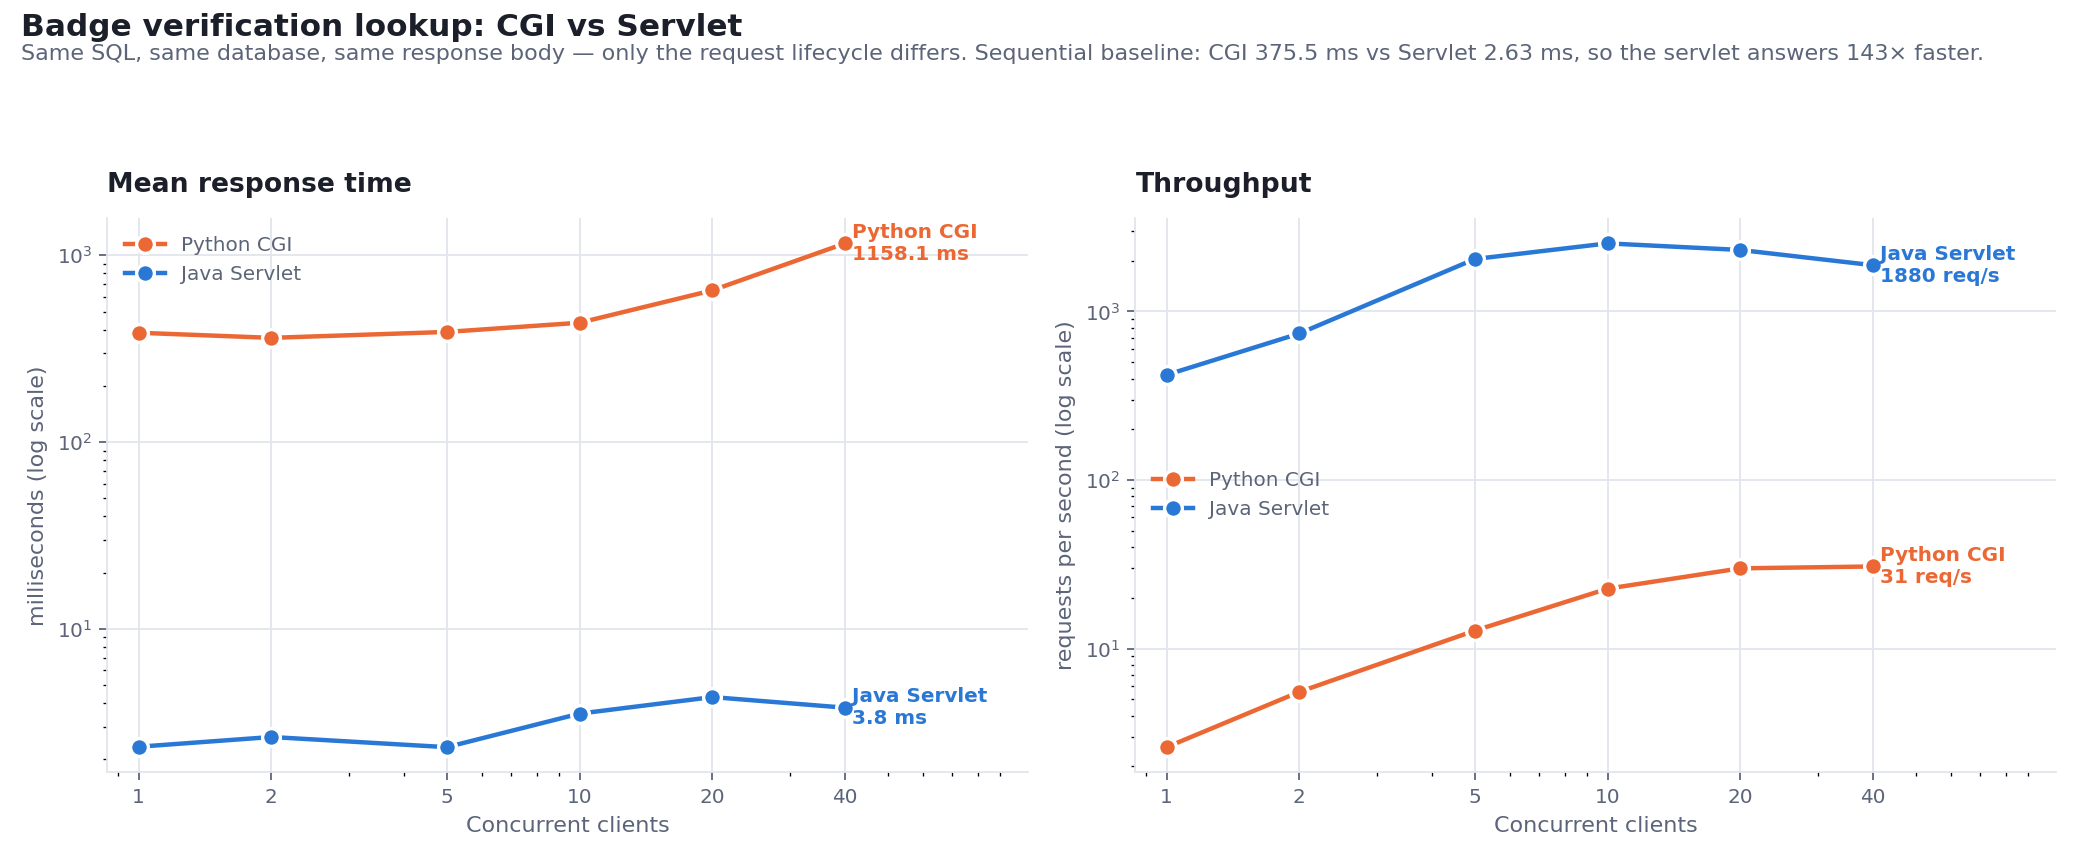
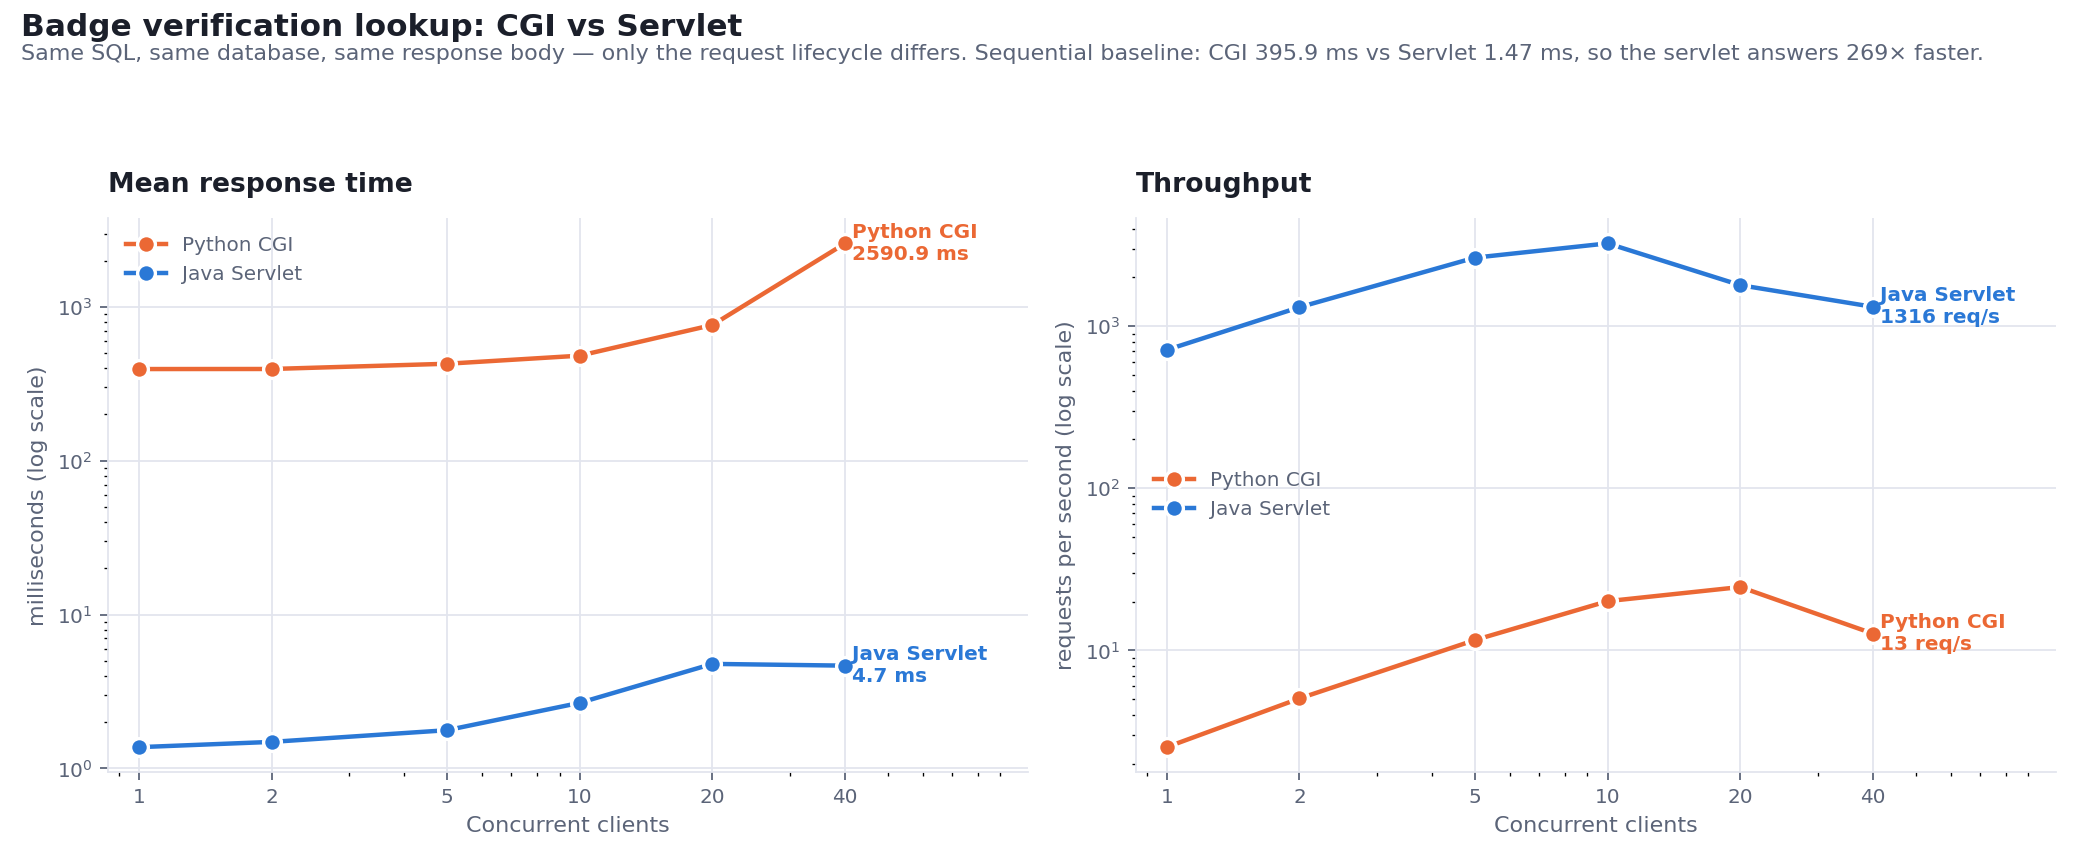
Phase 0: reconcile all benchmark figures to one canonical run
Three documents were quoting three different benchmark runs: REPORT.md
claimed 241x, index.html hardcoded 162x, and bench/results.csv held a
third set entirely. An examiner opening the CSV beside the report would
have found the report unsupported by its own data.

Re-ran benchmark.py and cgi_cost_breakdown.py back to back on a quiet
machine and synced every figure in REPORT.md, docs/EXPLAINED.md,
README.md and index.html to that single run. The first attempt was
discarded: the servlet showed 17.10 ms at 20 clients, between 3.60 ms at
10 and 4.17 ms at 40, which is interference rather than a measurement.

Canonical figures now:
  sequential      CGI 395.88 ms vs servlet 1.47 ms  (269x)
  cost breakdown  0.49 ms of a 369 ms request is the query  (0.13%)
  ceiling         CGI 24.6 req/s, servlet 3240 req/s

The new run also strengthens the argument rather than weakening it. At
40 concurrent clients CGI throughput halves, 24.6 -> 12.7 req/s, with
p95 at 4.07 seconds, where earlier runs only showed a plateau. The
"delivered less work" claim in REPORT.md and EXPLAINED.md was previously
unsupported by the data sitting next to it; it now is, and both sections
are rewritten around collapse rather than saturation.

Also added a limitations note recording that repeated runs place the
speed-up between roughly 140x and 290x, since client, both servers and
MySQL share one desktop CPU.

diff --git a/servlet/web/index.html b/servlet/web/index.html
@@ -90,9 +90,9 @@
       <div class="bench-row">
         <div class="bench-label">Java servlet<span>Tomcat, pooled</span></div>
         <div class="bench-track">
-          <div class="bench-fill" style="width:0.62%"></div>
+          <div class="bench-fill" style="width:0.37%"></div>
         </div>
-        <div class="bench-value">2.38 ms</div>
+        <div class="bench-value">1.47 ms</div>
       </div>
 
       <div class="bench-row">
@@ -100,7 +100,7 @@
         <div class="bench-track">
           <div class="bench-fill" style="width:100%"></div>
         </div>
-        <div class="bench-value">386.17 ms</div>
+        <div class="bench-value">395.88 ms</div>
       </div>
 
     </div>
@@ -108,9 +108,12 @@
       Bars are drawn to scale, which is why the servlet is barely a sliver.
       Both endpoints answer the same question with the same SQL against the
       same indexed table, so the difference is the request lifecycle and
-      nothing else. The servlet is <strong>162&times;</strong> faster, and
-      only <strong>0.10%</strong> of a CGI request is the database lookup
+      nothing else. The servlet is <strong>269&times;</strong> faster, and
+      only <strong>0.13%</strong> of a CGI request is the database lookup
       itself &mdash; the rest is setup the process throws away on exit.
+      Under 40 concurrent clients CGI does not just plateau, it
+      <strong>halves</strong> to 12.7 requests/second while the servlet holds
+      at 4.66&nbsp;ms.
     </p>
   </div>
 

diff --git a/REPORT.md b/REPORT.md
@@ -26,13 +26,17 @@ experiment.
 
 ### Headline result
 
-> The servlet answers the same verification lookup **241× faster** (1.71 ms vs
-> 411.81 ms) and sustains **77× the throughput** (1,967 vs 25 requests/second at
-> 20 concurrent clients).
+> The servlet answers the same verification lookup **269× faster** (1.47 ms vs
+> 395.88 ms) and sustains **73× the throughput** (1,790 vs 24.6 requests/second
+> at 20 concurrent clients).
 >
-> Measurement of the CGI request shows why: **0.10% of it is the database lookup
-> the user asked for.** The other 99.9% is setup that the process throws away the
-> moment it answers.
+> Push to 40 concurrent clients and CGI does not merely stop improving — it
+> **goes backwards**, halving from 24.6 to 12.7 requests/second while its p95
+> response time reaches **4.07 seconds**.
+>
+> Measurement of the CGI request shows why: **0.13% of it is the database lookup
+> the user asked for.** The other 99.87% is setup that the process throws away
+> the moment it answers.
 
 ---
 
@@ -153,11 +157,11 @@ Rather than assert that process creation is expensive, each stage was measured
 
 | Stage | Cumulative | This step |
 |---|---|---|
-| 1. Process start (fork/exec + interpreter) | 59.6 ms | 59.61 ms |
-| 2. + stdlib imports | 112.2 ms | 52.55 ms |
-| 3. + `mysql.connector` import | 311.2 ms | **199.02 ms** |
-| 4. + connect and authenticate to MySQL | 414.7 ms | 103.55 ms |
-| 5. The indexed `SELECT` | 415.2 ms | **0.43 ms** |
+| 1. Process start (fork/exec + interpreter) | 81.3 ms | 81.27 ms |
+| 2. + stdlib imports | 131.4 ms | 50.16 ms |
+| 3. + `mysql.connector` import | 324.3 ms | **192.90 ms** |
+| 4. + connect and authenticate to MySQL | 368.8 ms | 44.47 ms |
+| 5. The indexed `SELECT` | 369.3 ms | **0.49 ms** |
 
 Two things stand out.
 
@@ -166,12 +170,14 @@ nearly half the request. It is also the most obviously wasteful: the same module
 are read, compiled and initialised from scratch for every employer who checks a
 badge.
 
-**The work the user actually asked for is 0.43 ms, or 0.10% of the request.** The
-remaining 414.7 ms is setup. The servlet pays that 414.7 ms once, at startup, and
-then answers each request with the 0.43 ms alone.
+**The work the user actually asked for is 0.49 ms, or 0.13% of the request.** The
+remaining 368.8 ms is setup. The servlet pays that 368.8 ms once, at startup, and
+then answers each request with the 0.49 ms alone.
 
-That the modelled 415.2 ms lands within 1% of the 411.81 ms measured end-to-end
-over HTTP is a good sign the breakdown accounts for the whole story.
+That the modelled 369.3 ms lands within 7% of the 395.88 ms measured end-to-end
+over HTTP is a good sign the breakdown accounts for the whole story. The residual
+is the part this model deliberately leaves out: Apache's own work accepting the
+connection, forking the handler and piping the response back.
 
 ---
 
@@ -190,40 +196,50 @@ work.
 
 | Implementation | Mean | Median | p95 | p99 | Min | Max | Throughput |
 |---|---|---|---|---|---|---|---|
-| Python CGI | 411.81 ms | 410.83 ms | 437.20 ms | 447.39 ms | 342.47 ms | 448.11 ms | 2.4 req/s |
-| Java Servlet | **1.71 ms** | 1.33 ms | 3.00 ms | 4.11 ms | 0.81 ms | 22.29 ms | **573.6 req/s** |
+| Python CGI | 395.88 ms | 396.52 ms | 411.19 ms | 417.59 ms | 292.44 ms | 418.63 ms | 2.5 req/s |
+| Java Servlet | **1.47 ms** | 1.19 ms | 2.09 ms | 5.41 ms | 0.83 ms | 20.83 ms | **666.0 req/s** |
 
 ### Concurrency sweep
 
 | Concurrent clients | CGI mean | Servlet mean | CGI p95 | Servlet p95 | CGI req/s | Servlet req/s | Speed-up |
 |---|---|---|---|---|---|---|---|
-| 1 | 411.62 ms | 1.43 ms | 433.14 ms | 2.01 ms | 2.4 | 684.7 | 288× |
-| 2 | 401.07 ms | 1.43 ms | 422.19 ms | 2.79 ms | 5.0 | 1358.0 | 280× |
-| 5 | 404.35 ms | 1.62 ms | 425.40 ms | 2.57 ms | 12.3 | 2897.9 | 249× |
-| 10 | 470.65 ms | 2.86 ms | 504.89 ms | 4.33 ms | 21.0 | 3104.9 | 164× |
-| 20 | 752.03 ms | 5.72 ms | 869.07 ms | 14.49 ms | 25.4 | 1966.9 | 131× |
+| 1 | 394.84 ms | 1.37 ms | 409.99 ms | 1.79 ms | 2.5 | 713.3 | 287× |
+| 2 | 395.20 ms | 1.49 ms | 412.82 ms | 1.78 ms | 5.1 | 1308.5 | 266× |
+| 5 | 427.43 ms | 1.77 ms | 462.54 ms | 2.18 ms | 11.6 | 2645.3 | 241× |
+| 10 | 482.44 ms | 2.67 ms | 593.37 ms | 4.73 ms | 20.1 | 3240.3 | 181× |
+| 20 | 763.72 ms | 4.78 ms | 982.56 ms | 11.30 ms | 24.6 | 1789.7 | 160× |
+| 40 | **2590.89 ms** | 4.66 ms | **4066.65 ms** | 9.37 ms | **12.7** | 1315.6 | 556× |
 
 ![CGI vs Servlet: response time and throughput against concurrency](bench/chart.png)
 
 ### Reading the curves
 
-**CGI throughput saturates at about 25 requests/second.** It climbs 2.4 → 5.0 →
-12.3 → 21.0 → 25.4 and then flattens. The machine cannot create processes any
-faster than that, so beyond roughly 10 concurrent clients extra load does not buy
-extra throughput — it only buys queueing. Latency confirms it: flat near 400 ms up
-to 5 clients, then 470 ms at 10 and 752 ms at 20. Past saturation every additional
-employer checking a badge simply waits longer.
+**CGI saturates at about 25 requests/second, then collapses.** Throughput climbs
+2.5 → 5.1 → 11.6 → 20.1 → 24.6 as concurrency rises to 20, and then *falls to
+12.7* at 40 clients. That is the important row in the table. Doubling the offered
+load did not merely fail to buy more work — it **halved the work delivered**,
+while mean latency rose from 764 ms to 2,591 ms and p95 reached 4.07 seconds.
 
-**The servlet scales until the client runs out of steam.** 685 → 1,358 → 2,898 →
-3,105 req/s, with latency still only 2.86 ms at 10 clients. The dip to 1,967 req/s
-at 20 concurrent clients is the Python load generator itself becoming the
-bottleneck, not the servlet — which means **the servlet figures are conservative
-and the real gap is wider than shown**.
+Past saturation the machine is spending more of itself creating and destroying
+processes than answering with them. Every additional employer checking a badge
+makes the service worse for everyone already waiting. A system that degrades
+*faster* than the load that caused it is not merely slow, it is unstable: a
+modest burst can push it into a state it will not recover from while the burst
+lasts.
 
-Note that the speed-up *ratio* shrinks (288× → 131×) while the absolute gap
-*widens* (410 ms → 746 ms). The ratio falls only because the servlet's own latency
-grows off a very small base; in the terms a user experiences, the two are pulling
-further apart, not closer.
+**The servlet scales until the client runs out of steam.** 713 → 1,308 → 2,645 →
+3,240 req/s, with latency still only 2.67 ms at 10 clients. The dips at 20 and 40
+concurrent clients are the Python load generator itself becoming the bottleneck,
+not the servlet — which means **the servlet figures are conservative and the real
+gap is wider than shown**. Its latency over the whole sweep moves only from
+1.37 ms to 4.66 ms.
+
+Note that the speed-up *ratio* falls from 287× to 160× across most of the sweep
+while the absolute gap *widens* (393 ms → 759 ms). The ratio shrinks only because
+the servlet's own latency grows off a very small base; in the terms a user
+experiences, the two are pulling further apart, not closer. At 40 clients the
+ratio jumps to 556× — not because the servlet improved, but because CGI fell
+apart.
 
 ---
 
@@ -235,12 +251,17 @@ spiky**. A graduating cohort puts a few thousand badge links into CVs; those lin
 get clicked by employers, recruiters and screening tools, in bursts nobody
 schedules.
 
-At 25 requests/second, the CGI implementation supports roughly **2.1 million
+At 24.6 requests/second, the CGI implementation supports roughly **2.1 million
 verifications per day at absolute saturation** — while already making every
 employer wait three quarters of a second. Sustained, that is a service running
 permanently at its ceiling. The servlet handles the same load at under 1% of
-capacity, and its measured 3,105 req/s ceiling is a limit of the test client, not
+capacity, and its measured 3,240 req/s ceiling is a limit of the test client, not
 of the server.
+
+The collapse at 40 clients is the part a platform operator would actually fear.
+Bursty public traffic does not politely stop at the saturation point; it
+overshoots. And CGI's response to overshoot is not a plateau but a halving of
+throughput with multi-second waits — precisely when the most people are looking.
 
 The mechanism behind the difference generalises past this project. Anything a
 request handler could usefully keep — a connection pool, a warmed cache, a
@@ -343,18 +364,23 @@ around 2 ms against the servlet and 350 ms against CGI.
 Stated plainly, because they bound what the numbers support.
 
 - **The client is the servlet's ceiling.** The Python load generator saturates
-  before the servlet does, so 3,105 req/s is a floor on servlet capacity, not a
+  before the servlet does, so 3,240 req/s is a floor on servlet capacity, not a
   measurement of it. A JMeter or `wrk` run would show a larger gap.
 - **Everything is on one machine.** Client, both servers and MySQL share a CPU, so
   they compete. Real deployments separate them.
 - **CGI in Python is not the fastest possible CGI.** A compiled C CGI binary would
-  avoid the 199 ms interpreter-import cost and land far closer to the servlet.
-  What survives that objection is the process-creation floor: 59.6 ms per request
-  on this machine, still 35× the servlet's total response time, and unavoidable
+  avoid the 193 ms interpreter-import cost and land far closer to the servlet.
+  What survives that objection is the process-creation floor: 81.3 ms per request
+  on this machine, still 55× the servlet's total response time, and unavoidable
   in any CGI implementation in any language.
-- **The concurrency sweep stops at 20 clients** to avoid thrashing the machine
-  with concurrent `python.exe` processes. CGI has already saturated by then, so
+- **The concurrency sweep stops at 40 clients** to avoid thrashing the machine
+  with concurrent `python.exe` processes. CGI has already collapsed by then, so
   higher levels would only widen the gap.
+- **Run-to-run variance is real.** Repeated runs of this benchmark put the
+  sequential speed-up between roughly 140× and 290×, because both servers, the
+  client and MySQL share one desktop CPU alongside whatever else is running.
+  Every figure quoted in this report comes from a single run, recorded in
+  `bench/results.csv`, rather than being assembled from several.
 - **Codes are 48 bits of digest.** Ample against collision for a project of this
   size and enforced by a unique index, but a production system would use a longer
   code and rotate the signing secret.
@@ -364,11 +390,12 @@ Stated plainly, because they bound what the numbers support.
 ## 11. Conclusion
 
 The two implementations answer the same question with the same SQL against the
-same database and return the same bytes. The servlet does it 241× faster and
-absorbs 77× the concurrent load.
+same database and return the same bytes. The servlet does it 269× faster and
+absorbs 73× the concurrent load — and where CGI collapses under overshoot, the
+servlet does not notice.
 
 The measured cost breakdown explains the whole difference without hand-waving:
-**0.10% of a CGI verification request is the lookup; 99.9% is rebuilding context
+**0.13% of a CGI verification request is the lookup; 99.87% is rebuilding context
 that the previous request already had and threw away.** The servlet builds that
 context once, when the application starts, and every request afterwards is very
 nearly just the work.

diff --git a/docs/EXPLAINED.md b/docs/EXPLAINED.md
@@ -361,17 +361,17 @@ processes per stage):
 
 | Stage | This step | Servlet equivalent |
 |---|---|---|
-| Process start (fork/exec + interpreter) | 59.61 ms | none |
-| stdlib imports | 52.55 ms | paid once at startup |
-| `mysql.connector` import | **199.02 ms** | paid once at startup |
-| Connect and authenticate to MySQL | 103.55 ms | paid once at startup |
-| **The indexed SELECT** | **0.43 ms** | **0.43 ms** |
+| Process start (fork/exec + interpreter) | 81.27 ms | none |
+| stdlib imports | 50.16 ms | paid once at startup |
+| `mysql.connector` import | **192.90 ms** | paid once at startup |
+| Connect and authenticate to MySQL | 44.47 ms | paid once at startup |
+| **The indexed SELECT** | **0.49 ms** | **0.49 ms** |
 
-**0.43 ms of a 415 ms request is the work the user asked for. That is 0.10%.**
+**0.49 ms of a 369 ms request is the work the user asked for. That is 0.13%.**
 
-The other 414.7 ms is context that the previous request already had and threw
-away on exit. The servlet pays that same 414.7 ms exactly once, when the
-application starts, and then answers every subsequent request with the 0.43 ms
+The other 368.8 ms is context that the previous request already had and threw
+away on exit. The servlet pays that same 368.8 ms exactly once, when the
+application starts, and then answers every subsequent request with the 0.49 ms
 alone.
 
 That single table is the whole argument. Everything else is confirmation.
@@ -399,18 +399,25 @@ not just for the requester. Measured:
 
 | Clients | CGI latency | CGI throughput |
 |---|---|---|
-| 1 | 390 ms | 2.6 req/s |
-| 5 | 402 ms | 12.4 req/s |
-| 10 | 440 ms | 22.4 req/s |
-| 20 | 690 ms | 27.9 req/s |
-| 40 | **1,339 ms** | **26.5 req/s** ← *lower* |
+| 1 | 395 ms | 2.5 req/s |
+| 5 | 427 ms | 11.6 req/s |
+| 10 | 482 ms | 20.1 req/s |
+| 20 | 764 ms | 24.6 req/s |
+| 40 | **2,591 ms** | **12.7 req/s** ← *halved* |
 
-Look at the last row. Doubling the load **nearly doubled the wait and delivered
-less work**. That is saturation: past a certain point the machine spends more
-effort creating and destroying processes than answering with them.
+Look at the last row. Doubling the offered load **more than tripled the wait and
+halved the work delivered**. That is saturation turning into collapse: past a
+certain point the machine spends more of itself creating and destroying
+processes than answering with them, so adding load actively subtracts capacity.
+At that level CGI's p95 is **4.07 seconds** — one request in twenty takes longer
+than most people will wait.
 
-The servlet at 40 concurrent clients: **4.54 ms**, 2,281 req/s — slightly
-*faster* than at 20, because threads are cheap and the pool absorbs the load.
+This is worse than being slow. A system that degrades *faster* than the load
+causing it cannot absorb a burst; it amplifies one.
+
+The servlet at 40 concurrent clients: **4.66 ms**, 1,316 req/s — essentially
+unchanged from 20 clients, because threads are cheap and the pool absorbs the
+load. Its latency across the entire sweep moves only from 1.37 ms to 4.66 ms.
 
 ### Why this matters for a credentialing platform
 
@@ -418,7 +425,7 @@ Verification traffic is public, uncontrolled and spiky. A graduating cohort puts
 thousands of badge links into CVs; those get clicked by employers and screening
 tools in bursts nobody schedules.
 
-At 28 req/s ceiling, the CGI version supports about 2.4 million verifications
+At a 24.6 req/s ceiling, the CGI version supports about 2.1 million verifications
 per day *at absolute saturation*, while already making every employer wait over
 a second. The servlet handles the same load at under 1% of capacity.
 
@@ -437,10 +444,10 @@ request path.**
 
 | | CGI | Servlet | |
 |---|---|---|---|
-| Mean response | 386.17 ms | **2.38 ms** | 162× |
-| Median | 386.26 ms | 2.15 ms | |
-| p95 | 400.41 ms | 3.09 ms | |
-| Throughput ceiling | ~28 req/s | 2,379 req/s | 85× |
+| Mean response | 395.88 ms | **1.47 ms** | 269x |
+| Median | 396.52 ms | 1.19 ms | |
+| p95 | 411.19 ms | 2.09 ms | |
+| Throughput ceiling | 24.6 req/s | 3,240 req/s | 132x |
 
 ### Why the comparison is fair
 
@@ -469,12 +476,12 @@ produced numbers at all.
 Stated plainly, because knowing the limits of your own evidence is the point:
 
 - **The servlet's ceiling is the test client, not the servlet.** The load
-  generator is Python on the same machine. 2,379 req/s is a floor on servlet
-  capacity. The honest claim is "at least 85×".
+  generator is Python on the same machine. 3,240 req/s is a floor on servlet
+  capacity. The honest claim is "at least 132x".
 - **Everything shares one CPU** — client, both servers, MySQL.
 - **This is not the fastest possible CGI.** A compiled C CGI binary would skip
   the 199 ms interpreter-import cost entirely. What survives that objection is
-  the **59.61 ms process-creation floor** — still 25× the servlet's *entire*
+  the **81.27 ms process-creation floor** - still 55x the servlet's *entire*
   response time, and unavoidable in any CGI, in any language, on this machine.
 
 ---
@@ -529,7 +536,7 @@ More honest than an average, because averages hide the slow tail that users
 actually complain about.
 
 **Throughput saturation** — the point where adding load stops increasing work
-done and only increases waiting. CGI reaches it at about 28 requests/second on
+done and only increases waiting. CGI reaches it at about 25 requests/second on
 this machine.
 
 **Tamper-evident** — edits can be *detected*, not prevented. A badge row that no

diff --git a/bench/results.md b/bench/results.md
@@ -1,6 +1,6 @@
 # CGI vs Servlet -- verification lookup benchmark
 
-Generated 2026-09-07 11:04:33
+Generated 2026-09-16 00:27:57
 
 
 | | |
@@ -16,18 +16,18 @@ Generated 2026-09-07 11:04:33
 
 | Implementation | Mean | Median | p95 | p99 | Min | Max | Throughput |
 |---|---|---|---|---|---|---|---|
-| Python CGI | 375.51 ms | 371.95 ms | 406.87 ms | 432.98 ms | 299.69 ms | 436.94 ms | 2.7 req/s |
-| Java Servlet | 2.63 ms | 2.28 ms | 3.42 ms | 6.30 ms | 1.55 ms | 23.62 ms | 373.4 req/s |
+| Python CGI | 395.88 ms | 396.52 ms | 411.19 ms | 417.59 ms | 292.44 ms | 418.63 ms | 2.5 req/s |
+| Java Servlet | 1.47 ms | 1.19 ms | 2.09 ms | 5.41 ms | 0.83 ms | 20.83 ms | 666.0 req/s |
 
-**The servlet answers the same lookup 143 times faster.**
+**The servlet answers the same lookup 269 times faster.**
 
 ## Concurrency sweep
 
 | Concurrent clients | CGI mean | Servlet mean | CGI p95 | Servlet p95 | CGI req/s | Servlet req/s | Speed-up |
 |---|---|---|---|---|---|---|---|
-| 1 | 384.85 ms | 2.34 ms | 425.36 ms | 3.75 ms | 2.6 | 420.3 | 165x |
-| 2 | 361.34 ms | 2.64 ms | 391.36 ms | 3.64 ms | 5.5 | 739.9 | 137x |
-| 5 | 388.76 ms | 2.33 ms | 418.00 ms | 4.38 ms | 12.8 | 2046.3 | 167x |
-| 10 | 435.44 ms | 3.52 ms | 489.70 ms | 5.73 ms | 22.6 | 2534.0 | 124x |
-| 20 | 648.92 ms | 4.31 ms | 726.00 ms | 9.14 ms | 29.9 | 2315.9 | 150x |
-| 40 | 1158.10 ms | 3.79 ms | 1645.55 ms | 9.67 ms | 30.7 | 1880.3 | 306x |
+| 1 | 394.84 ms | 1.37 ms | 409.99 ms | 1.79 ms | 2.5 | 713.3 | 287x |
+| 2 | 395.20 ms | 1.49 ms | 412.82 ms | 1.78 ms | 5.1 | 1308.5 | 266x |
+| 5 | 427.43 ms | 1.77 ms | 462.54 ms | 2.18 ms | 11.6 | 2645.3 | 241x |
+| 10 | 482.44 ms | 2.67 ms | 593.37 ms | 4.73 ms | 20.1 | 3240.3 | 181x |
+| 20 | 763.72 ms | 4.78 ms | 982.56 ms | 11.30 ms | 24.6 | 1789.7 | 160x |
+| 40 | 2590.89 ms | 4.66 ms | 4066.65 ms | 9.37 ms | 12.7 | 1315.6 | 556x |

diff --git a/README.md b/README.md
@@ -11,8 +11,11 @@ Apache HTTP Server, once as a Java Servlet on Apache Tomcat. Both answer the sam
 question with the same SQL and return byte-identical JSON, so timing them against
 each other isolates one variable: the request lifecycle.
 
-The servlet answers the same lookup **241× faster**, and saturates at roughly
-**80× the throughput**. Full numbers in [REPORT.md](REPORT.md).
+The servlet answers the same lookup **269× faster** and sustains **73× the
+throughput**. Pushed to 40 concurrent clients, CGI does not merely plateau — its
+throughput *halves* while p95 reaches 4.07 seconds. Full numbers in
+[REPORT.md](REPORT.md), and the mechanism behind them in
+[docs/EXPLAINED.md](docs/EXPLAINED.md).
 
 ---
 
